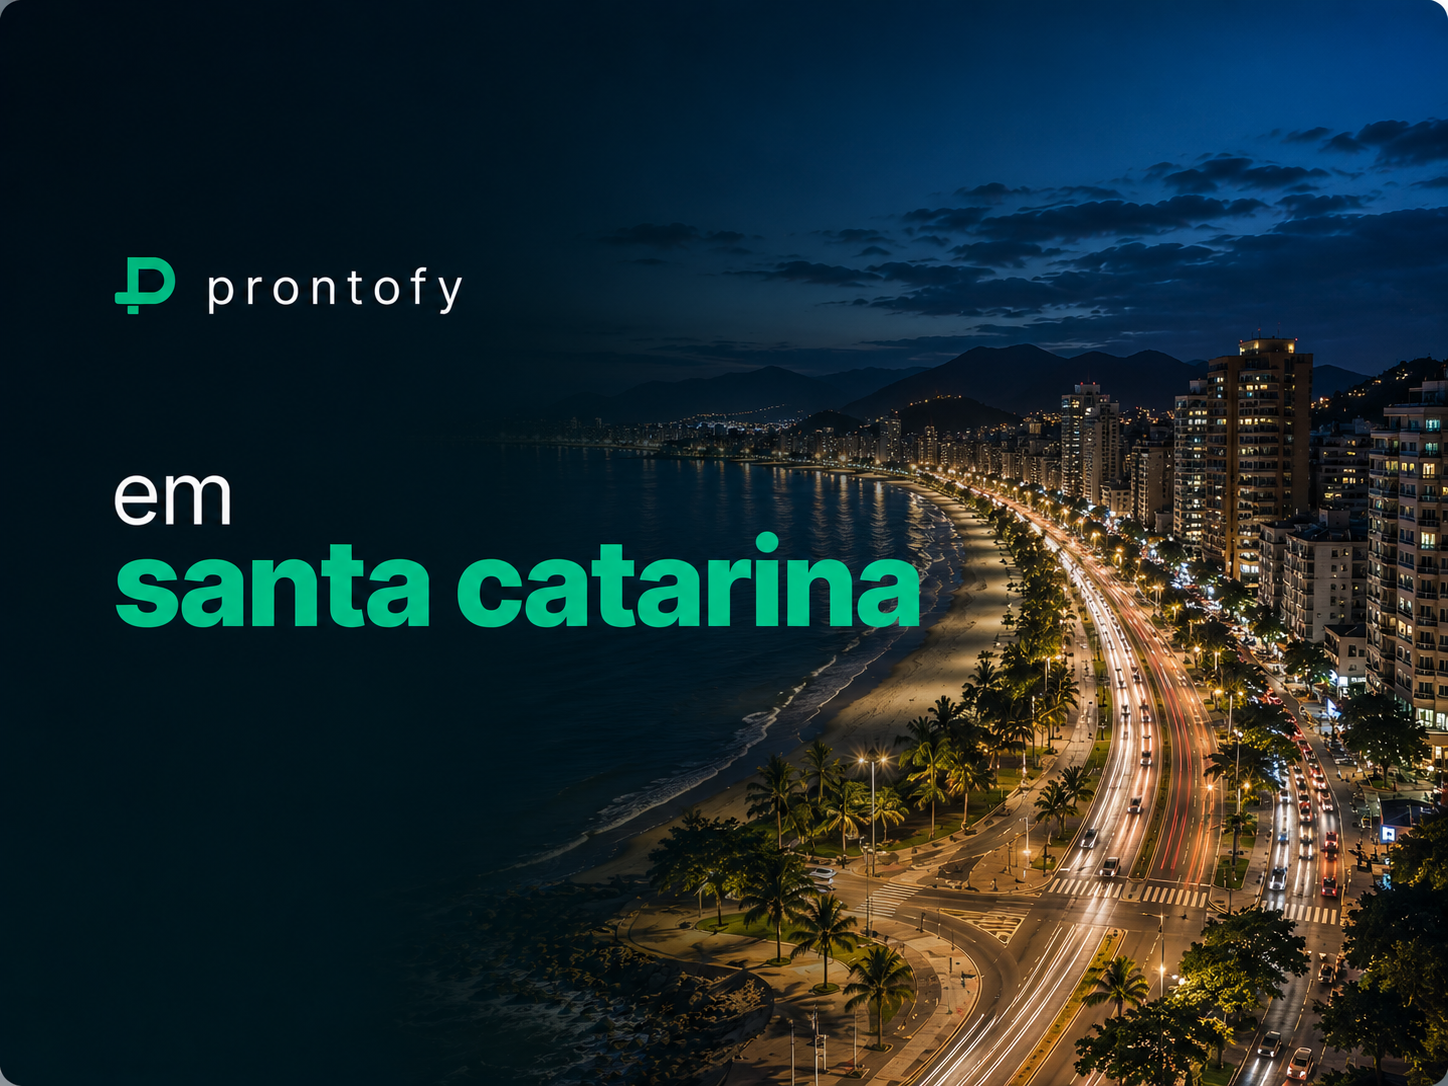
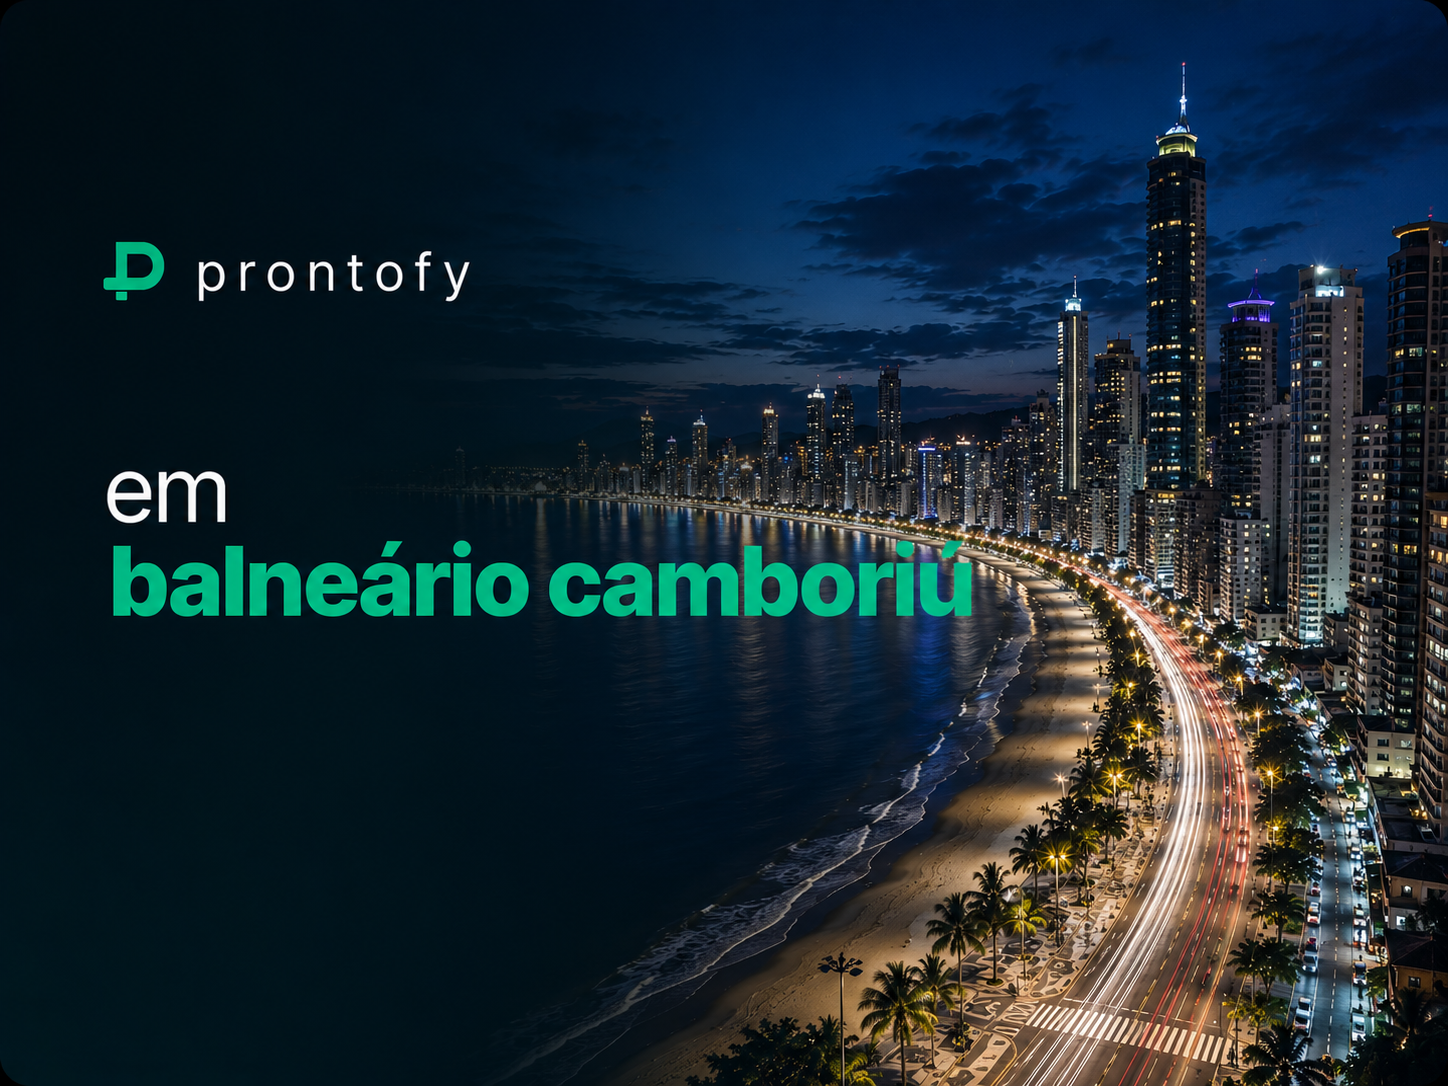
Update Prontofy visuals and form stats

diff --git a/src/components/AuthoritySection.tsx b/src/components/AuthoritySection.tsx
@@ -1,17 +1,19 @@
 import { useEffect, useRef, useState } from "react";
 import { ArrowDown, ArrowRight } from "lucide-react";
-import cardClinic from "@/assets/card-clinic.jpg";
 import cardDashboard from "@/assets/card-dashboard.jpg";
-import cardPatients from "@/assets/card-patients.jpg";
-import cardAi from "@/assets/card-ai.jpg";
 import mapaBrasil from "@/assets/mapa-brasil.jpg";
+import acreImage from "@/assets/acre.png";
+import bahiaImage from "@/assets/bahia.png";
+import balnearioCamboriuImage from "@/assets/balneario-camboriu.png";
+import rioDeJaneiroImage from "@/assets/rio-de-janiero.png";
+import saoPauloImage from "@/assets/sao-paulo.png";
 
 const metrics = [
-  { photo: cardClinic, number: "+18 mil", desc: "Consultas / ano em São Paulo", count: { end: 18, prefix: "+", suffix: " mil" } },
-  { photo: cardDashboard, number: "+6,5 mil", desc: "Atendimentos na Bahia", count: { end: 6.5, prefix: "+", suffix: " mil", decimals: 1 } },
-  { photo: cardPatients, number: "98%", desc: "NPS no Rio de Janeiro", count: { end: 98, suffix: "%" } },
-  { photo: cardAi, number: "↓ 42%", desc: "Menos no-shows em Balneário Camboriú", count: { end: 42, prefix: "↓ ", suffix: "%" } },
-  { photo: cardClinic, number: "+3,2 mil", desc: "Pacientes ativos no Acre", count: { end: 3.2, prefix: "+", suffix: " mil", decimals: 1 } },
+  { photo: saoPauloImage, number: "+18 mil", desc: "Consultas / ano em São Paulo", count: { end: 18, prefix: "+", suffix: " mil" } },
+  { photo: bahiaImage, number: "+6,5 mil", desc: "Atendimentos na Bahia", count: { end: 6.5, prefix: "+", suffix: " mil", decimals: 1 } },
+  { photo: rioDeJaneiroImage, number: "98%", desc: "NPS no Rio de Janeiro", count: { end: 98, suffix: "%" } },
+  { photo: balnearioCamboriuImage, number: "↓ 42%", desc: "Menos no-shows em Balneário Camboriú", count: { end: 42, prefix: "↓ ", suffix: "%" } },
+  { photo: acreImage, number: "+3,2 mil", desc: "Pacientes ativos no Acre", count: { end: 3.2, prefix: "+", suffix: " mil", decimals: 1 } },
   { photo: cardDashboard, number: "24/7", desc: "Gestão acompanhada em tempo real" },
 ];
 

diff --git a/src/pages/FormularioLeads.tsx b/src/pages/FormularioLeads.tsx
@@ -24,10 +24,12 @@ import {
 } from "lucide-react";
 import ProntofyLogo from "@/components/ProntofyLogo";
 import agendaIa from "@/assets/agenda-ia.png";
+import antesImage from "@/assets/antes.png";
 import cardAi from "@/assets/card-ai.jpg";
-import cardClinic from "@/assets/card-clinic.jpg";
 import cardDashboard from "@/assets/card-dashboard.jpg";
 import cardPatients from "@/assets/card-patients.jpg";
+import depoisImage from "@/assets/depois.png";
+import madrugadaTristeImage from "@/assets/madrugada-triste.png";
 import solucaoDeGestao from "@/assets/solucao-de-gestao.png";
 
 const ESTADOS = [
@@ -521,8 +523,8 @@ const PainSection = () => {
               const Icon = stat.icon;
               return (
                 <article key={stat.text} className="min-h-[190px] flex-[0_0_82vw] sm:flex-[0_0_45%] lg:flex-[0_0_47%] snap-center rounded-2xl border border-emerald-300/14 bg-white/[0.055] p-6 shadow-[0_0_54px_rgba(28,200,138,0.08)] backdrop-blur">
-                  <Icon className="h-6 w-6 text-emerald-300" />
-                  <p className="mt-6 text-3xl font-extrabold text-white">{stat.value}</p>
+                  <Icon className="h-6 w-6 text-[#b8b8b8]" />
+                  <p className="mt-6 text-3xl font-extrabold text-[#1CC88A]">{stat.value}</p>
                   <p className="mt-3 text-sm leading-6 text-white/66">{stat.text}</p>
                 </article>
               );
@@ -557,7 +559,7 @@ const LifestyleSection = () => (
     <div className="absolute inset-0 bg-[radial-gradient(circle_at_18%_72%,rgba(28,200,138,0.14),transparent_30%),radial-gradient(circle_at_78%_20%,rgba(30,136,229,0.14),transparent_34%)]" />
     <div className="relative mx-auto grid max-w-7xl gap-10 lg:grid-cols-[0.95fr_1.05fr] lg:items-center">
       <div className="order-1 overflow-hidden rounded-2xl border border-white/10 bg-white/[0.055] p-3 shadow-[0_28px_80px_rgba(0,0,0,0.28)] lg:order-none">
-        <img src={cardClinic} alt="Médico usando tecnologia em consultório moderno" className="aspect-[4/3] w-full rounded-xl object-cover" />
+        <img src={madrugadaTristeImage} alt="Médico trabalhando até tarde em um consultório" className="aspect-[4/3] w-full rounded-xl object-cover" />
       </div>
       <div className="order-2">
         <p className="text-sm font-bold uppercase tracking-[0.2em] text-emerald-300">Qualidade de vida</p>
@@ -694,8 +696,8 @@ const BeforeAfterSection = () => (
         Do operacional pesado para uma rotina inteligente.
       </h2>
       <div className="mt-12 grid gap-5 lg:grid-cols-2">
-        <CompareCard image={cardPatients} label="Antes" title="Sobrecarga e desorganização" items={["Atrasos e mensagens acumuladas", "Retrabalho administrativo", "Estresse operacional constante"]} />
-        <CompareCard image={cardAi} label="Depois" title="Controle, produtividade e qualidade de vida" items={["Dashboards inteligentes", "Automações e IA na rotina", "Equipe com clareza para executar"]} highlight />
+        <CompareCard image={antesImage} label="Antes" title="Sobrecarga e desorganização" items={["Atrasos e mensagens acumuladas", "Retrabalho administrativo", "Estresse operacional constante"]} />
+        <CompareCard image={depoisImage} label="Depois" title="Controle, produtividade e qualidade de vida" items={["Dashboards inteligentes", "Automações e IA na rotina", "Equipe com clareza para executar"]} highlight />
       </div>
     </div>
   </section>

diff --git a/src/components/TransformationSection.tsx b/src/components/TransformationSection.tsx
@@ -1,7 +1,7 @@
 import { ArrowRight, CheckCircle2, Clock3, TrendingUp } from "lucide-react";
-import cardAi from "@/assets/card-ai.jpg";
-import cardDashboard from "@/assets/card-dashboard.jpg";
-import cardPatients from "@/assets/card-patients.jpg";
+import automacoesImage from "@/assets/automacoes.png";
+import antesImage from "@/assets/antes.png";
+import depoisImage from "@/assets/depois.png";
 
 const gains = [
   {
@@ -61,21 +61,21 @@ const TransformationSection = () => {
             <div className="grid gap-4 sm:grid-cols-2">
               <div className="rounded-lg border border-white/10 bg-[#071016] p-4">
                 <p className="text-xs font-bold uppercase tracking-[0.18em] text-white/45">Antes</p>
-                <img src={cardPatients} alt="" className="mt-4 aspect-[4/3] w-full rounded-md object-cover opacity-72" />
+                <img src={antesImage} alt="" className="mt-4 aspect-[4/3] w-full rounded-md object-cover opacity-72" />
                 <p className="mt-4 text-xl font-extrabold text-white">Dados espalhados</p>
                 <p className="mt-2 text-sm leading-6 text-white/58">Decisoes dependem de planilhas, memoria da equipe e retrabalho.</p>
               </div>
 
               <div className="rounded-lg border border-emerald-300/24 bg-emerald-400/[0.08] p-4 shadow-[0_18px_54px_rgba(25,200,121,0.12)]">
                 <p className="text-xs font-bold uppercase tracking-[0.18em] text-emerald-300">Depois</p>
-                <img src={cardDashboard} alt="" className="mt-4 aspect-[4/3] w-full rounded-md object-cover" />
+                <img src={depoisImage} alt="" className="mt-4 aspect-[4/3] w-full rounded-md object-cover" />
                 <p className="mt-4 text-xl font-extrabold text-white">Gestao visivel</p>
                 <p className="mt-2 text-sm leading-6 text-white/68">Indicadores, rotina e atendimento alinhados para agir com clareza.</p>
               </div>
             </div>
 
             <div className="mt-4 flex items-center justify-between gap-3 rounded-lg border border-white/10 bg-black/28 p-4">
-              <img src={cardAi} alt="" className="h-14 w-14 rounded-md object-cover" />
+              <img src={automacoesImage} alt="" className="h-14 w-14 rounded-md object-cover" />
               <div className="min-w-0 flex-1">
                 <p className="text-sm font-bold text-white">Automacoes e IA trabalhando junto com a equipe</p>
                 <p className="mt-1 text-xs text-white/55">Menos tarefas manuais, mais tempo para cuidar do paciente.</p>